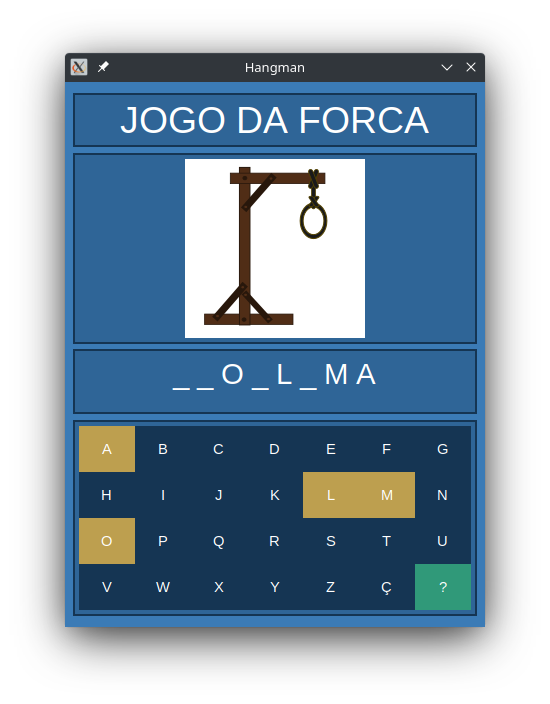
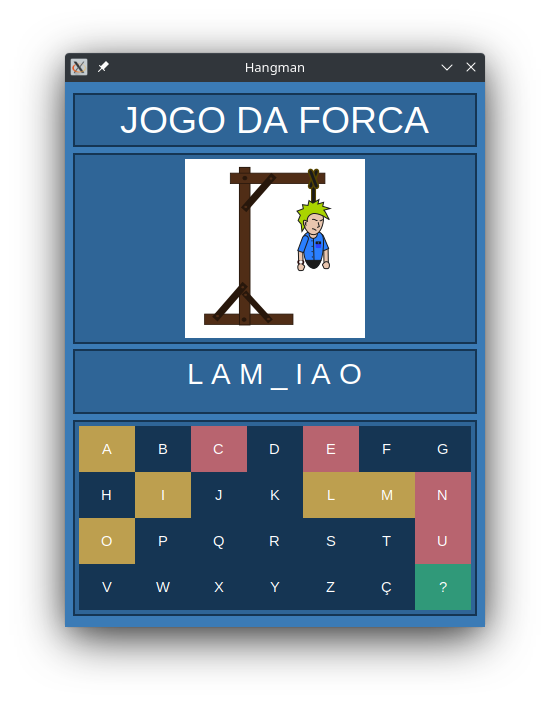
Melhoria na aparência e no código

diff --git a/src/hangmam_gui.py b/src/hangmam_gui.py
@@ -1,4 +1,5 @@
 """ Importação das bibliotecas """
+import platform
 from tkinter import *
 from random import choice
 from tkinter import messagebox
@@ -6,13 +7,19 @@ from tkinter import messagebox
 # Lista de palavras
 from src.data import words as PALAVRAS
 
+if str(platform.system()) == 'Windows':
+    PATH: str = 'src\\img\\'
+else:
+    PATH: str = 'src/img/'
+
 app = Tk()
 
 cores = {
-    "azul_claro": '#153553',
-    "nada": '#3b7bb6',
+    "azul_escuro": '#153553',
+    "azul_claro": '#3b7bb6',
+    "vermelho": '#b8646f',
     "azul": '#2f6597',
-    "branco": "#fff",
+    "branco": "#ffffff",
     "verde": "#309979",
     "amarelo": "#bd9f4f",
 }
@@ -45,7 +52,7 @@ class Application:
     def janela(self) -> None:
         self.app.title("Hangman")
         self.app.resizable(width=False, height=False)
-        self.app.configure(background=cores["nada"])
+        self.app.configure(background=cores["azul_claro"])
 
         width = 420
         height = 545
@@ -57,19 +64,19 @@ class Application:
 
     def frames_do_app(self) -> None:
         self.frame_1 = Frame(self.app, bd=4, bg=cores["azul"],
-                             highlightbackground=cores["azul_claro"], highlightthickness=2)
+                             highlightbackground=cores["azul_escuro"], highlightthickness=2)
         self.frame_1.place(relx=0.02, rely=0.02, relwidth=0.96, relheight=0.1)
 
         self.frame_2 = Frame(self.app, bd=4, bg=cores["azul"],
-                             highlightbackground=cores["azul_claro"], highlightthickness=2)
+                             highlightbackground=cores["azul_escuro"], highlightthickness=2)
         self.frame_2.place(relx=0.02, rely=0.13, relwidth=0.96, relheight=0.35)
 
         self.frame_3 = Frame(self.app, bd=4, bg=cores["azul"],
-                             highlightbackground=cores["azul_claro"], highlightthickness=2)
+                             highlightbackground=cores["azul_escuro"], highlightthickness=2)
         self.frame_3.place(relx=0.02, rely=0.49, relwidth=0.96, relheight=0.12)
 
         self.frame_4 = Frame(self.app, bd=4, bg=cores["azul"],
-                             highlightbackground=cores["azul_claro"], highlightthickness=2)
+                             highlightbackground=cores["azul_escuro"], highlightthickness=2)
         self.frame_4.place(relx=0.02, rely=0.62, relwidth=0.96, relheight=0.36)
 
     def lables_do_app(self) -> None:
@@ -77,15 +84,8 @@ class Application:
             self.frame_1, text="JOGO DA FORCA", bg=cores["azul"], fg="#fff",  font=("Arial", 28))
         lable_titulo.pack()
 
-        self.hang = [
-            PhotoImage(file='src/img/hang0.png', width=180, height=180),
-            PhotoImage(file='src/img/hang1.png', width=180, height=180),
-            PhotoImage(file='src/img/hang2.png', width=180, height=180),
-            PhotoImage(file='src/img/hang3.png', width=180, height=180),
-            PhotoImage(file='src/img/hang4.png', width=180, height=180),
-            PhotoImage(file='src/img/hang5.png', width=180, height=180),
-            PhotoImage(file='src/img/hang6.png', width=180, height=180),
-        ]
+        self.hang = [PhotoImage(
+            file=f'{PATH}hang{x}.png', width=180, height=180) for x in range(7)]
         self.figura = Label(self.frame_2, image=self.hang[0], bg=cores["azul"])
         self.figura.pack()
 
@@ -98,7 +98,7 @@ class Application:
 
         self.botao = {}
         for i, letra in enumerate(alfabeto):
-            self.botao[letra] = Button(self.frame_4, text=letra, bg=cores["azul_claro"], fg=cores["azul_claro"],
+            self.botao[letra] = Button(self.frame_4, text=letra, bg=cores["azul_escuro"], fg=cores["azul_escuro"],
                                        foreground=cores["branco"], bd=0, highlightthickness=0,
                                        width=4, height=2, font=("Arial", 11))
 
@@ -108,7 +108,7 @@ class Application:
             else:
                 self.botao[letra]["command"] = self.ajuda
                 self.botao[letra]["bg"] = cores["verde"]
-                self.botao[letra]["fg"] = cores["azul_claro"]
+                self.botao[letra]["fg"] = cores["azul_escuro"]
                 self.botao[letra]["foreground"] = cores["branco"]
 
             if i < 7:
@@ -127,17 +127,21 @@ class Application:
 
     def verificar_letra(self, letra) -> None:
 
-        self.botao[letra]["bg"] = cores["amarelo"]
-        self.botao[letra]["fg"] = cores["amarelo"]
-        self.botao[letra]["foreground"] = cores["branco"]
-
         if letra in self.letras_palavra:
+            self.botao[letra]["bg"] = cores["amarelo"]
+            self.botao[letra]["fg"] = cores["amarelo"]
+            self.botao[letra]["foreground"] = cores["branco"]
+
             for i, l in enumerate(self.letras_palavra):
                 if letra == l:
                     self.letras_adivinhadas[i] = letra
 
                 self.label_palavra["text"] = self.letras_adivinhadas
         else:
+            self.botao[letra]["bg"] = cores["vermelho"]
+            self.botao[letra]["fg"] = cores["vermelho"]
+            self.botao[letra]["foreground"] = cores["branco"]
+
             self.chances += 1
             self.figura["image"] = self.hang[self.chances]
             if self.chances == 6:
@@ -154,8 +158,8 @@ class Application:
         alfabeto = "ABCDEFGHIJKLMNOPQRSTUVWXYZÇ?"
         for i, letra in enumerate(alfabeto):
             if i < 27:
-                self.botao[letra]["bg"] = cores["azul_claro"]
-                self.botao[letra]["fg"] = cores["azul_claro"]
+                self.botao[letra]["bg"] = cores["azul_escuro"]
+                self.botao[letra]["fg"] = cores["azul_escuro"]
                 self.botao[letra]["foreground"] = cores["branco"]
 
         self.chances = 0

diff --git a/README.md b/README.md
@@ -1,4 +1,4 @@
-<img src="./src/img/hangman_icon.svg" style="float: left; width: 80px;  margin-right: 20px;">
+<img src="./src/img/hangman_icon.svg" style="float: right; margin: 20px;">
 
 # **Hangman**
 Hangman ou em português Jogo da Forca, é um jogo de adivinhação onde você deverá descobrir qual é a palavra secreta cujo é apresentada de forma aleatória dizendo apenas as suas letras existentes.
@@ -9,6 +9,7 @@ Nesse projeto em questão, você também pode contar com uma dica da palavra apr
 ## **Observações importantes:**
 - Esse jogo foi desenvolvido em python usando a biblioteca TKinter para criar sua interface gráfica (GUI), caso tenha conhecimento e deseje testar, talvez precise instalar essa biblioteca para funcionar;
   - `pip install tk` ou `pip3 install tk`
+
 - Outro detalhe é que estou usando um sistema Linux derivado do Ubuntu, o **Kubuntu**, e tem uma chance da interface ficar diferente em outro sistema operacional, e certamente irá precisar de alguns ajustes.
 
 # Minha proposta pessoal nesse projeto:
